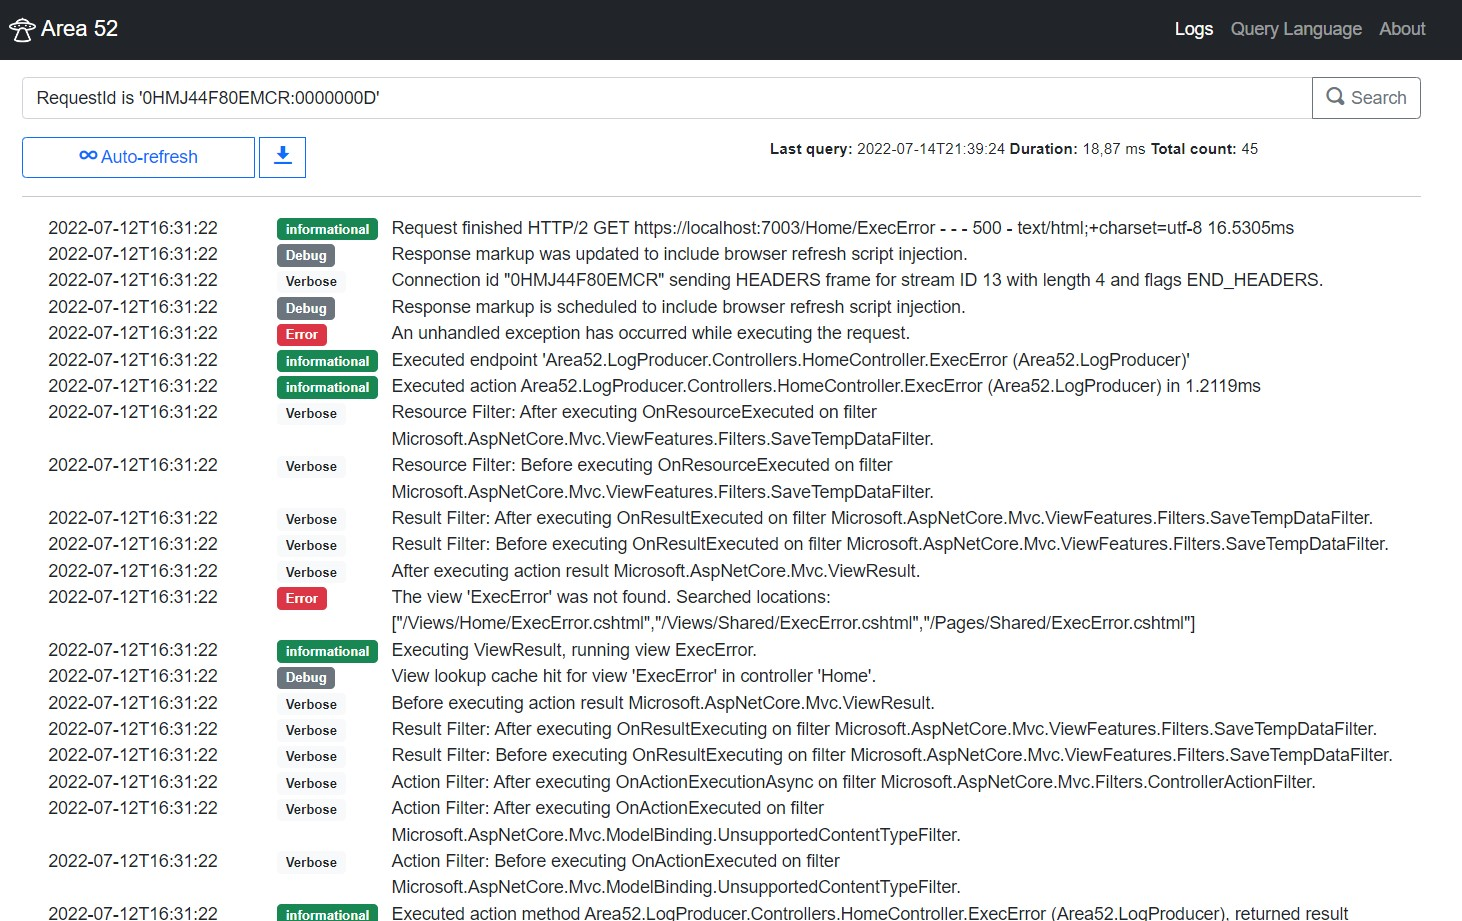
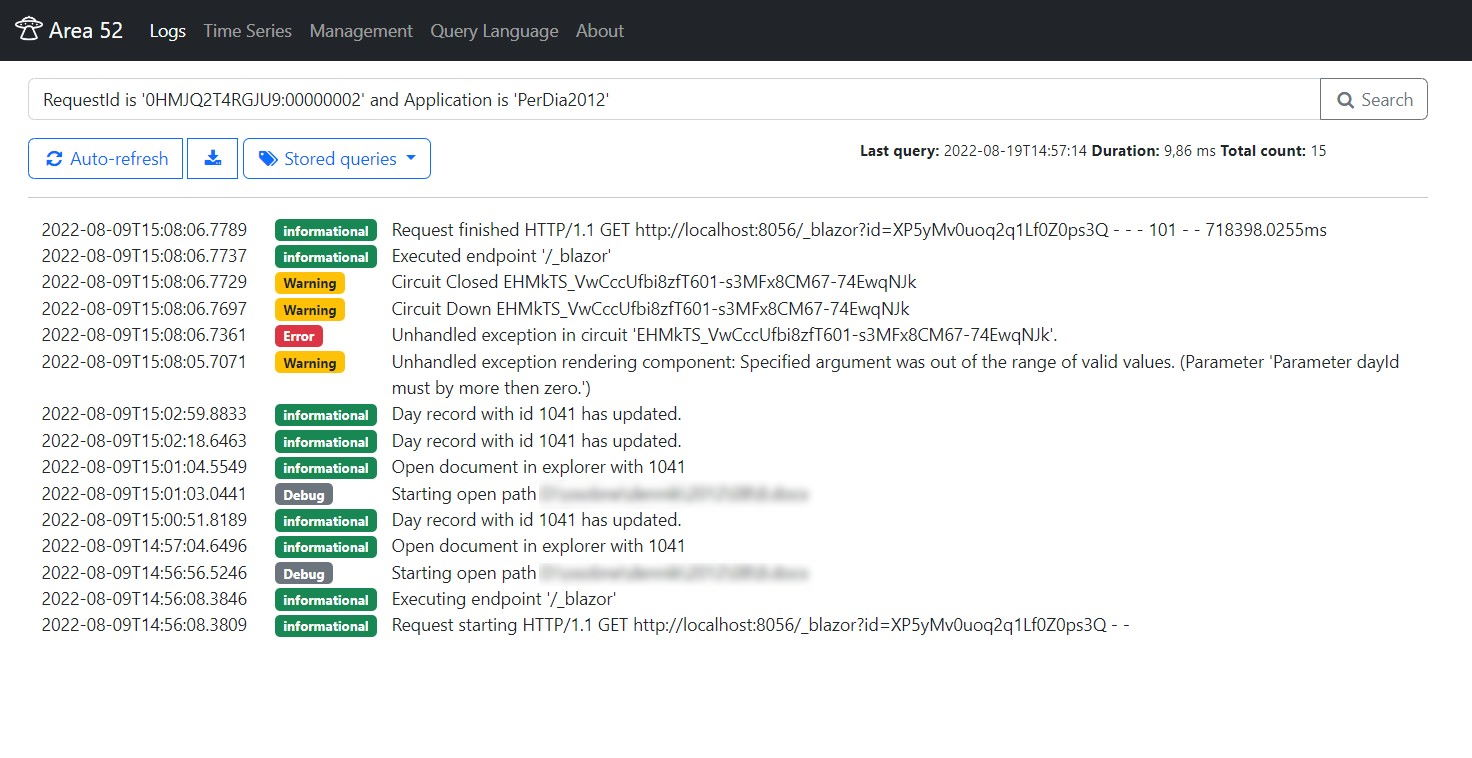
Update screenshots from project.

diff --git a/Readme.md b/Readme.md
@@ -16,9 +16,9 @@ This project uses [RavenDb](https://ravendb.net/) or MongoDb as a log store and 
   - logical operator,
   - and more...
 
-![Area 51 Screen](doc/Screen1.jpg)
-
 ![Area 51 Screen](doc/Screen2.jpg)
+
+Moore screenshots [doc/Readme.md](doc/Readme.md).
 
 ## Technology
 - [Dotnet 6.0](https://docs.microsoft.com/en-us/dotnet/core/whats-new/dotnet-6)
@@ -41,7 +41,7 @@ For build run in powershell:
 ## Future work
 - [ ] More efective read CLEF log from request
 - [ ] Autehntification
-  - [ ] Predefined queries
+  - [x] Predefined queries
   - [x] Distributed data protection provider
   - [ ] API keys for log input with management
 - [ ] Graph and alerts as subsriptions

diff --git a/doc/Readme.md b/doc/Readme.md
@@ -1,0 +1,19 @@
+# Area52 screenshots
+
+Dashboard on homepage.
+
+![Dashboard](Screen0.jpg)
+
+Searching in logos.
+
+![Searching in logos](Screen1.jpg)
+
+Log detail with action buttons.
+
+![Log Detail](Screen2.jpg)
+
+
+Time series visualtion in graph.
+
+![Time series](Screen3.jpg)
+
